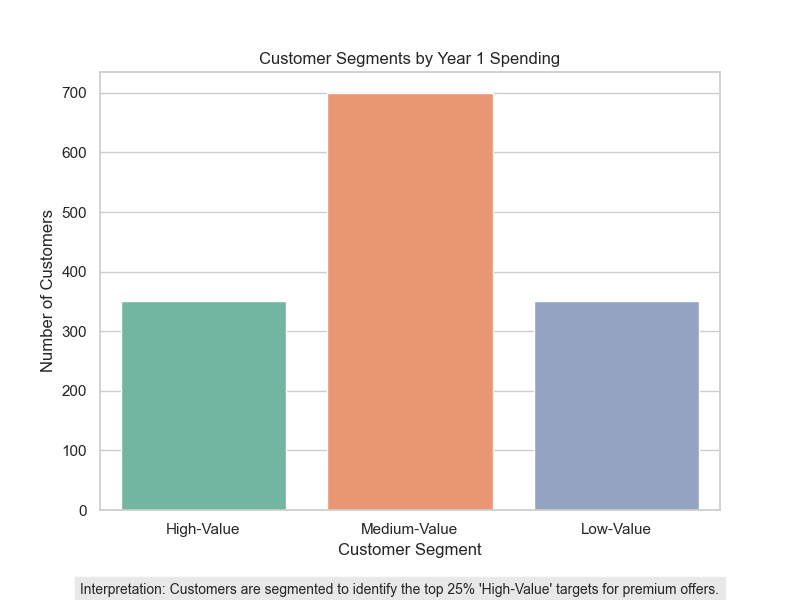
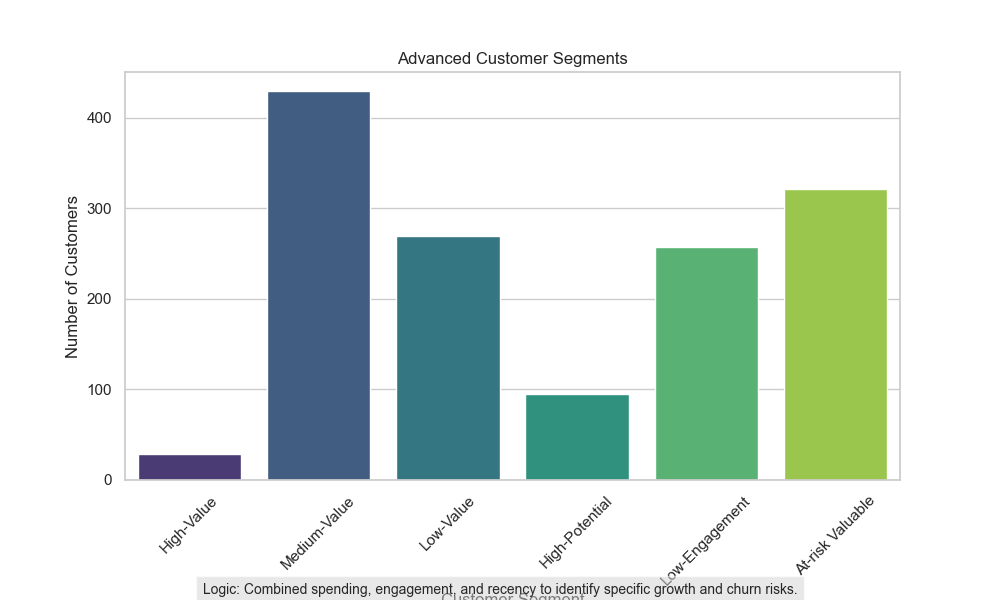
Implement and document advanced business-rule based customer segmentation

diff --git a/main.py b/main.py
@@ -144,25 +144,49 @@ plt.close()
 
 # 4. Customer Segmentation
 print("\n--- Customer Segmentation ---")
-# Segmenting based on Year1Spending using Quantiles
-def get_value_segment(spending):
-    if spending > df['Year1Spending'].quantile(0.75):
+
+# Defining advanced segments using business rules
+def segment_customers(row):
+    # Quantile thresholds
+    high_spending_threshold = df['Year1Spending'].quantile(0.75)
+    low_spending_threshold = df['Year1Spending'].quantile(0.25)
+    high_engagement_threshold = df['EngagementScore'].quantile(0.75)
+    low_engagement_threshold = df['EngagementScore'].quantile(0.25)
+    
+    # 1. At-risk Valuable: High spenders who haven't purchased recently
+    if row['Year1Spending'] >= high_spending_threshold and row['DaysSinceLastPurchase'] > 30:
+        return 'At-risk Valuable'
+    
+    # 2. High-potential: Medium spenders with high income and high engagement
+    if (low_spending_threshold < row['Year1Spending'] < high_spending_threshold) and \
+       row['AnnualIncome'] > df['AnnualIncome'].median() and \
+       row['EngagementScore'] > high_engagement_threshold:
+        return 'High-Potential'
+    
+    # 3. Low-Engagement: Low visits and low engagement score
+    if row['EngagementScore'] <= low_engagement_threshold:
+        return 'Low-Engagement'
+    
+    # Standard Value-based segments for the rest
+    if row['Year1Spending'] >= high_spending_threshold:
         return 'High-Value'
-    elif spending > df['Year1Spending'].quantile(0.25):
+    elif row['Year1Spending'] >= low_spending_threshold:
         return 'Medium-Value'
     else:
         return 'Low-Value'
 
-df['CustomerSegment'] = df['Year1Spending'].apply(get_value_segment)
+df['CustomerSegment'] = df.apply(segment_customers, axis=1)
 
 # Save segmented distribution
-plt.figure(figsize=(8, 6))
-sns.countplot(x='CustomerSegment', data=df, order=['High-Value', 'Medium-Value', 'Low-Value'], palette='Set2')
-plt.title('Customer Segments by Year 1 Spending')
+plt.figure(figsize=(10, 6))
+segment_order = ['High-Value', 'Medium-Value', 'Low-Value', 'High-Potential', 'Low-Engagement', 'At-risk Valuable']
+sns.countplot(x='CustomerSegment', data=df, order=segment_order, palette='viridis')
+plt.title('Advanced Customer Segments')
 plt.xlabel('Customer Segment')
 plt.ylabel('Number of Customers')
-plt.figtext(0.5, 0.01, "Interpretation: Customers are segmented to identify the top 25% 'High-Value' targets for premium offers.", ha="center", fontsize=10, bbox={"facecolor":"lightgrey", "alpha":0.5, "pad":5})
-plt.subplots_adjust(bottom=0.15)
+plt.figtext(0.5, 0.01, "Logic: Combined spending, engagement, and recency to identify specific growth and churn risks.", ha="center", fontsize=10, bbox={"facecolor":"lightgrey", "alpha":0.5, "pad":5})
+plt.subplots_adjust(bottom=0.2)
+plt.xticks(rotation=45)
 plt.savefig('images/customer_segments.png')
 plt.close()
 

diff --git a/README.md b/README.md
@@ -104,12 +104,19 @@ Here are the key insights and visualizations from the data:
 
 ## 5. Customer Segmentation
 
-Customers were segmented into three tiers based on their `Year1Spending` quantiles:
-1.  **High-Value Customers:** Top 25% of spenders. These are the most lucrative users.
-2.  **Medium-Value Customers:** Middle 50% of spenders. The core customer base with potential to grow.
-3.  **Low-Value Customers:** Bottom 25% of spenders. These customers spend the least and may require cost-effective retention strategies.
+Instead of simple spending tiers, we implemented a multi-dimensional segmentation strategy using **Business Rules** that combine historical spending, engagement levels, and recency:
 
-**Interpretation:** Customers are segmented to easily identify the top 25% 'High-Value' targets for premium offers. The X-axis represents the `Customer Segment` and the Y-axis represents the `Number of Customers`.
+1.  **High-Value Customers:** Customers in the top 25% of spending who are actively engaged.
+2.  **Medium-Value Customers:** Customers in the middle 50% of spending with steady activity.
+3.  **Low-Value Customers:** Customers in the bottom 25% of spending.
+4.  **High-Potential Customers:** Medium spenders with **high income** and **high engagement scores**. These are targets for upselling into the High-Value tier.
+5.  **Low-Engagement Customers:** Customers with extremely low visit frequency and low interaction scores, representing a primary churn risk.
+6.  **At-risk Valuable Customers:** High-spending "whales" who have not made a purchase in over 30 days.
+
+**Segmentation Logic:**
+The logic utilizes quantile-based thresholds for spending and engagement. For example, **At-risk Valuable** status is triggered if a customer is in the top spending quartile but has a `DaysSinceLastPurchase` greater than 30. **High-Potential** status is identified by cross-referencing medium spenders against higher-than-median income and top-quartile engagement.
+
+**Interpretation:** This segmentation allows for highly targeted marketing—preventing churn for whales while aggressively upselling to high-potential engaged users.
 ![Customer Segments](images/customer_segments.png)
 
 ---
